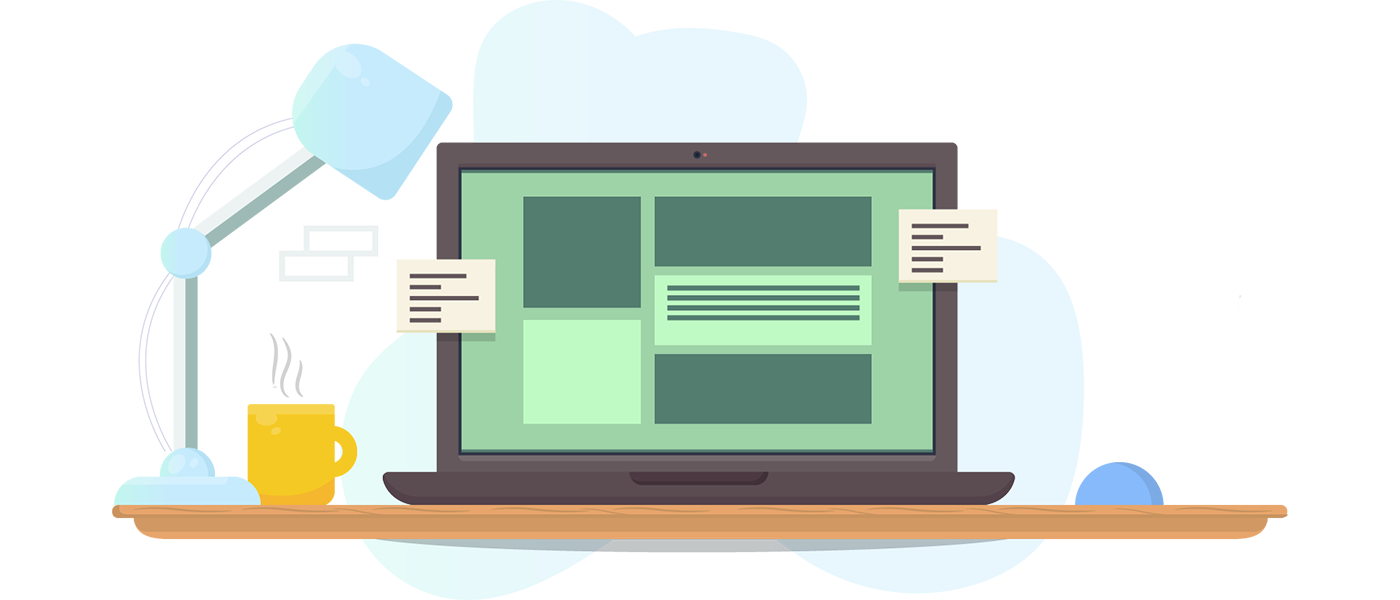
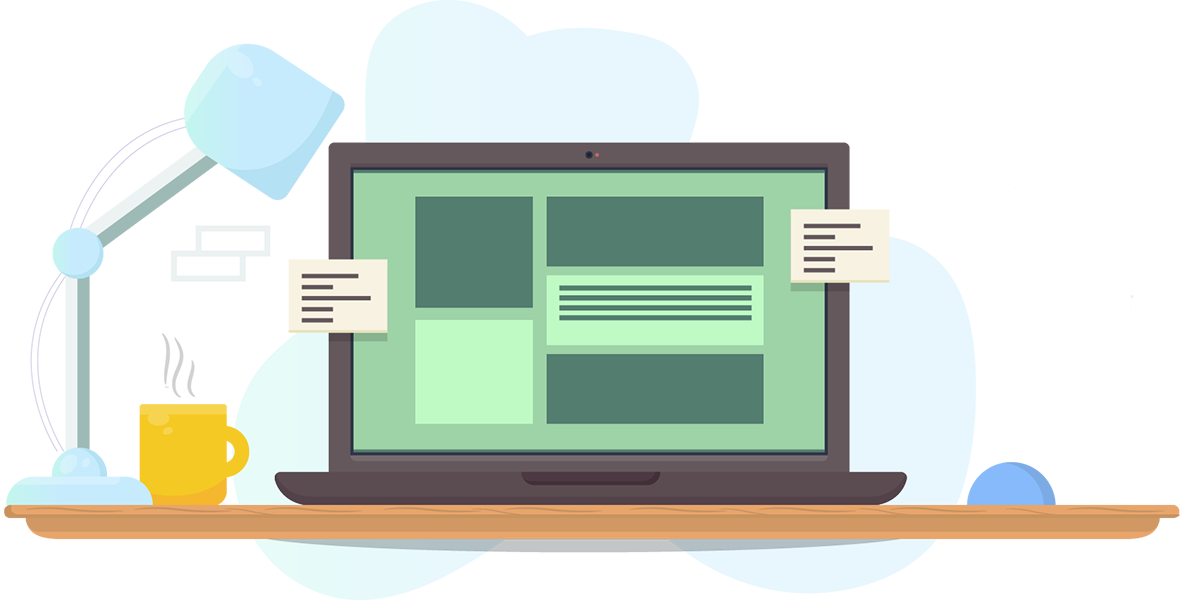
cta image update

diff --git a/src/components/CalltoAction/CtaImage.js b/src/components/CalltoAction/CtaImage.js
@@ -17,5 +17,10 @@ const ImageWrapper = styled.div`
   position: relative;
   display: flex;
   justify-content: flex-end;
-  padding: 120px 0px;
+  padding-top: 120px;
+  padding-right: 60px;
+
+  & img {
+    
+  }
 `;
